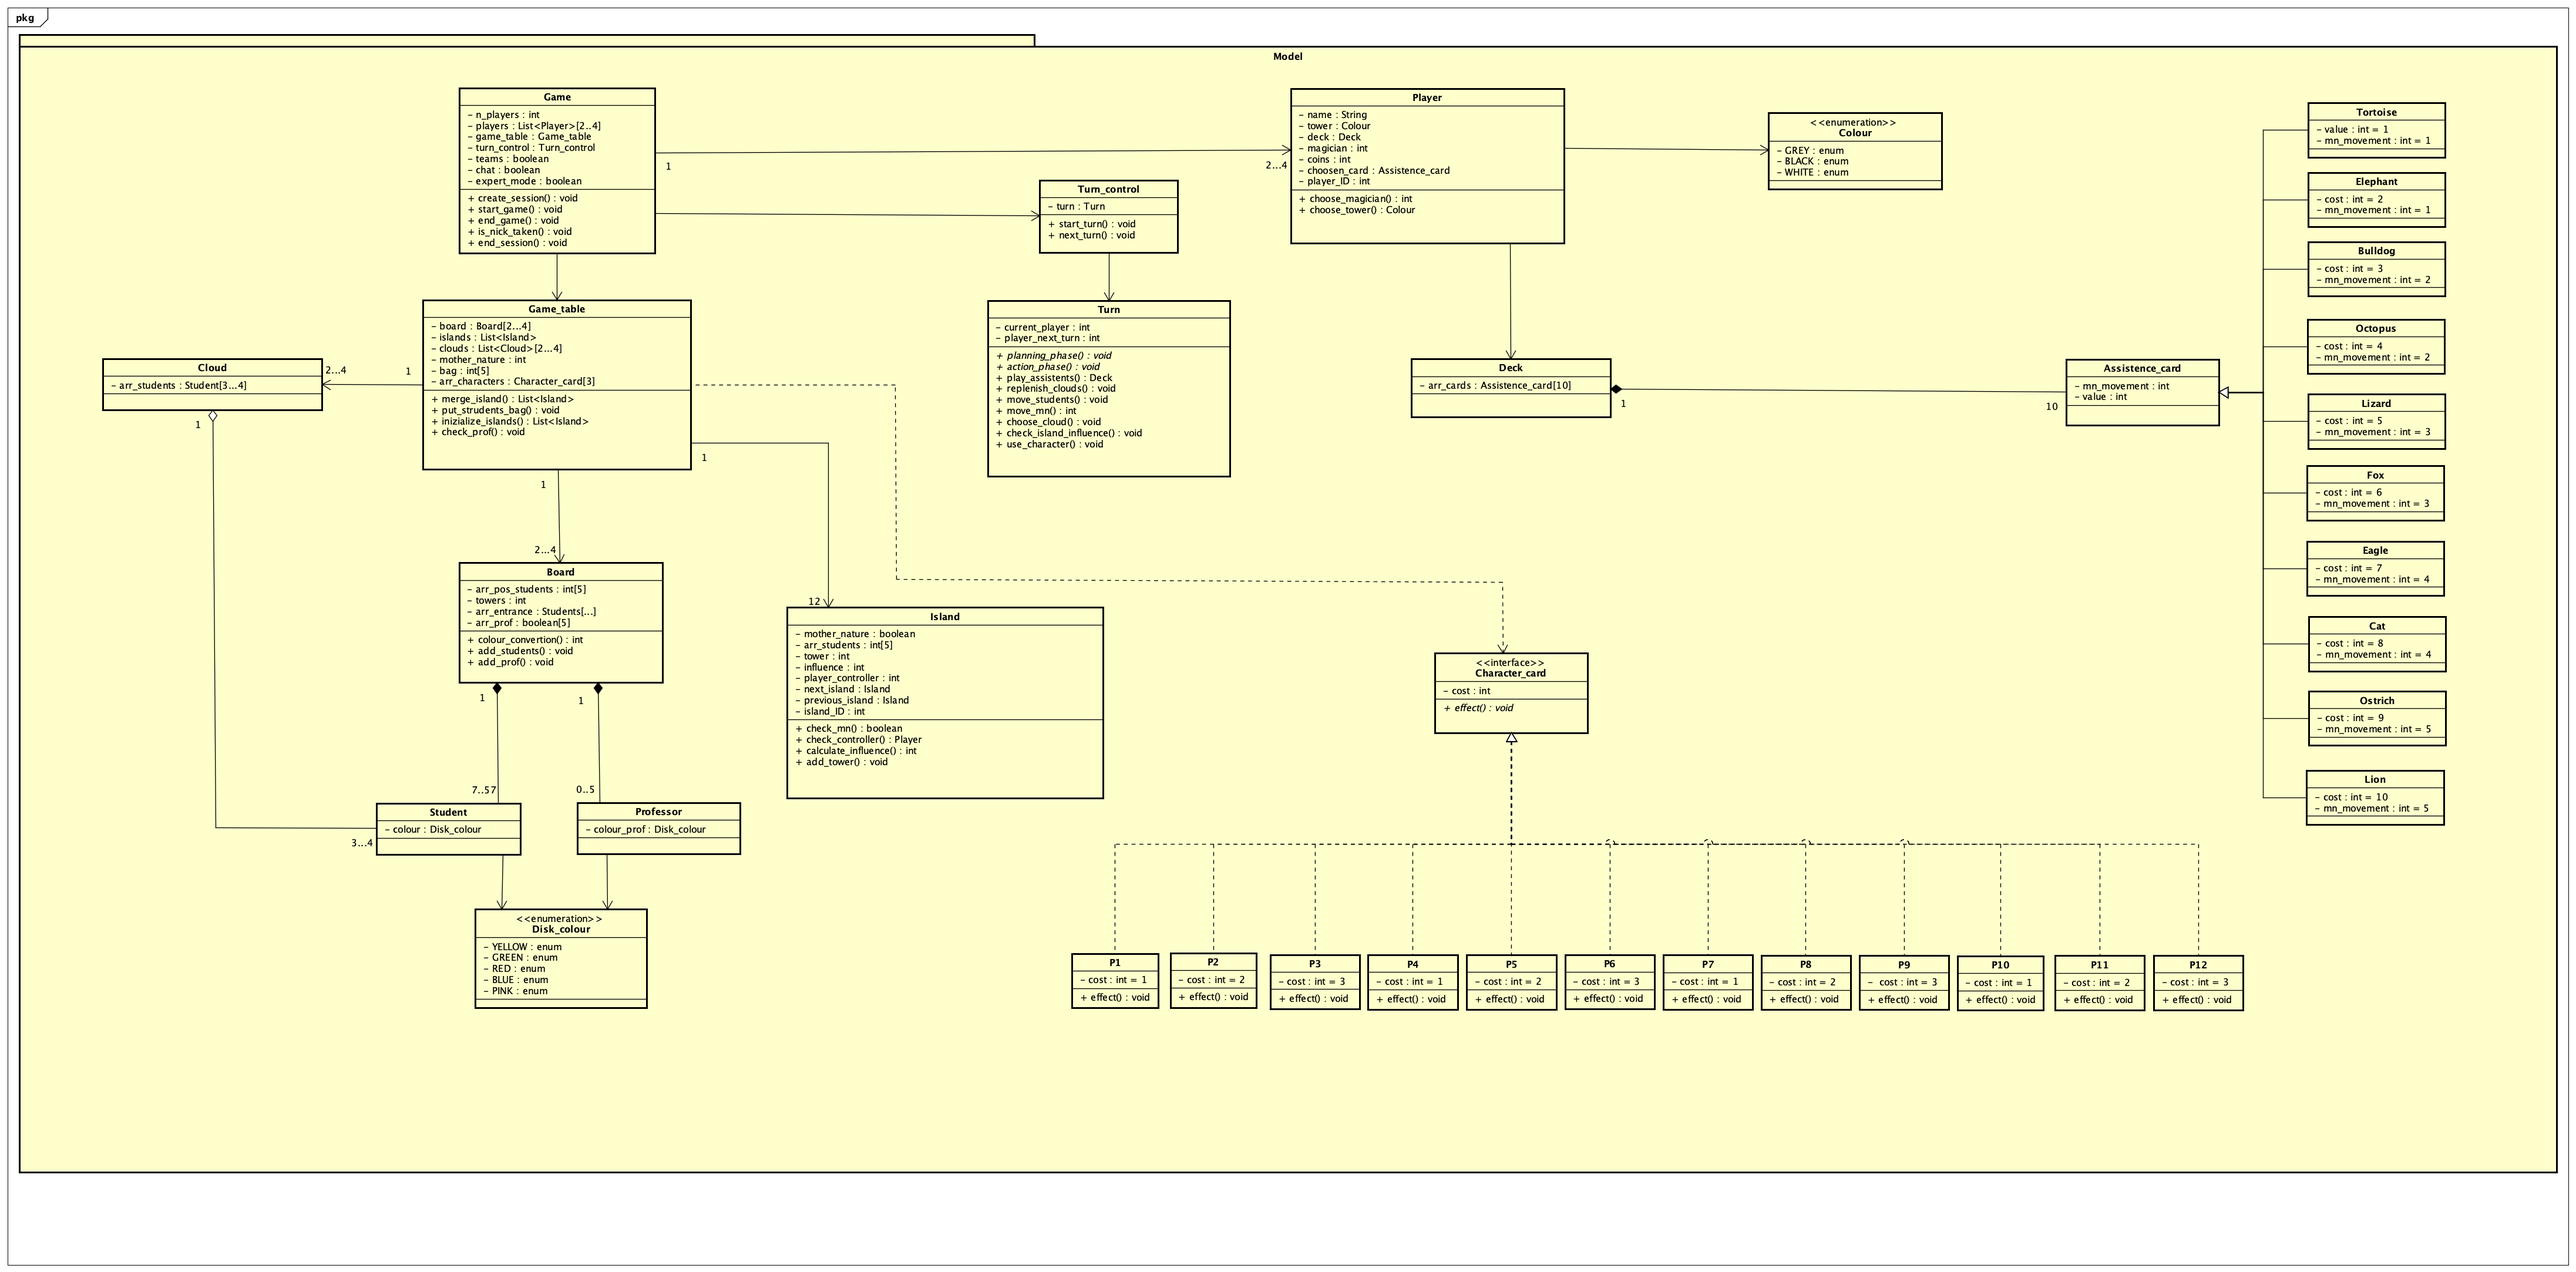
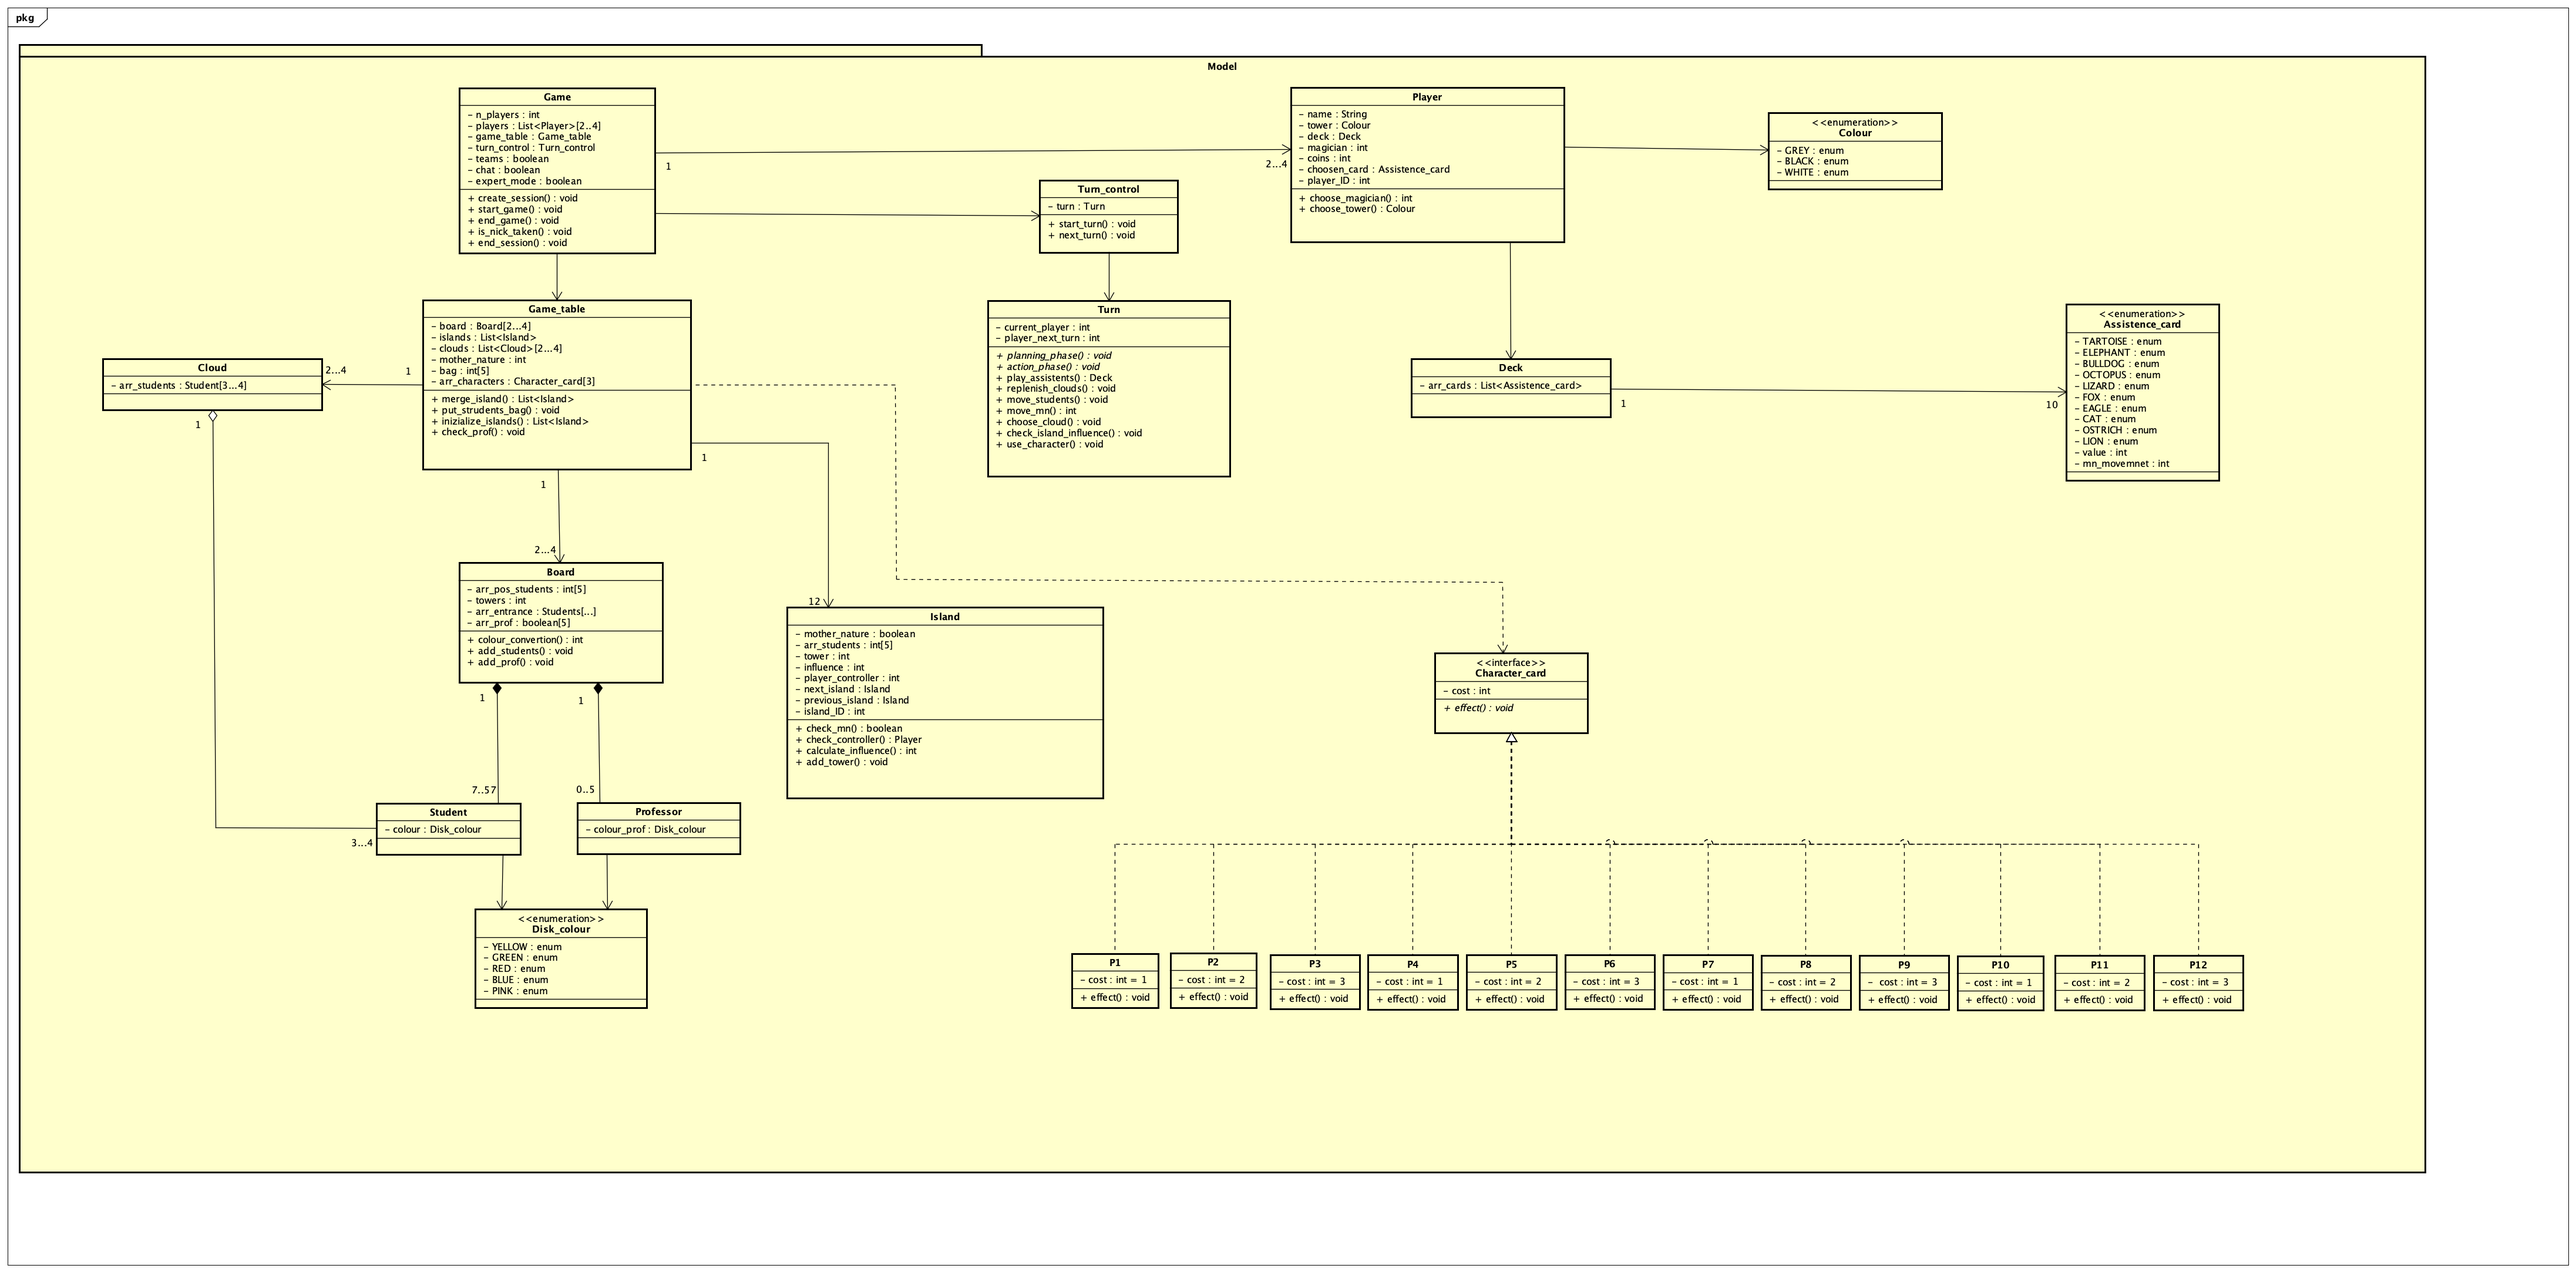
Modified some classes: Assistance_card is now an enumeration.

Changed region(s): [[0.0, 0.0, 0.9995, 0.928], [0.7809, 0.2475, 0.8434, 0.3712]]

diff --git a/src/main/java/it/polimi/ingsw/model/Player.java b/src/main/java/it/polimi/ingsw/model/Player.java
@@ -6,7 +6,10 @@ public class Player {
     private final int wizard;
     private int coin=1;
     private final int player_ID;
-    private Assistence_card chosen_card; //chosen card to play during the turn
+    private Assistance_card chosen_card; //chosen card to play during the turn
+    private final Deck deck=new Deck();
+
+
 
 
 
@@ -16,5 +19,30 @@ public class Player {
         tower_colour = tower.getTower_translate();
         this.player_ID = player_ID;
     }
+    //CHOSEN CARD AND REMOVAL MUST BE IMPLEMENTED
+    //private void set_chosen_card(Assistance_card chosen){
+    //    this.chosen_card = chosen.getChosen_card();
+    //    deck.remove_used_card(chosen_card);
+    //}
 
+
+    public int getPlayer_ID() {
+        return player_ID;
+    }
+
+    public int getCoin() {
+        return coin;
+    }
+
+    public int getTower_colour() {
+        return tower_colour;
+    }
+
+    public String getName() {
+        return name;
+    }
+
+    public void setChosen_card(Assistance_card chosen_card) {
+        this.chosen_card = chosen_card;
+    }
 }

diff --git a/src/main/java/it/polimi/ingsw/model/Deck.java b/src/main/java/it/polimi/ingsw/model/Deck.java
@@ -1,13 +1,29 @@
 package it.polimi.ingsw.model;
 
+import java.util.ArrayList;
+import java.util.Arrays;
+import java.util.List;
+
 public class Deck {
-    private Assistence_card[] arr_cards;
+    private List<Assistance_card> cards;
 
    public Deck(){
-       arr_cards = new Assistence_card[10];
-       // DECK IS NOT INITIALIZED YET
+       cards = new ArrayList<Assistance_card>(Arrays.asList(
+               Assistance_card.TORTOISE,
+               Assistance_card.ELEPHANT,
+               Assistance_card.BULLDOG,
+               Assistance_card.OCTOPUS,
+               Assistance_card.LIZARD,
+               Assistance_card.FOX,
+               Assistance_card.EAGLE,
+               Assistance_card.CAT,
+               Assistance_card.OSTRICH,
+               Assistance_card.LION));
        // REMEMBER TO IMPLEMENT
 
+   }
+   public void remove_used_card(Assistance_card chosen_remove){
+       cards.remove(chosen_remove);
    }
 
 

diff --git a/src/main/java/it/polimi/ingsw/model/Assistance_card.java b/src/main/java/it/polimi/ingsw/model/Assistance_card.java
@@ -1,0 +1,26 @@
+package it.polimi.ingsw.model;
+
+public enum Assistance_card {
+    TORTOISE(1,1), ELEPHANT(2,1),
+    BULLDOG(3,2),OCTOPUS(4,2),
+    LIZARD(5,3), FOX(6,3),
+    EAGLE(7,4), CAT(8,4),
+    OSTRICH(9,5), LION(10,5);
+
+    private final int value;
+    private final int mother_nature_movement;
+
+
+    Assistance_card(int value, int mother_nature_movement) {
+        this.value = value;
+        this.mother_nature_movement = mother_nature_movement;
+    }
+
+    public int getMother_nature_movement() {
+        return mother_nature_movement;
+    }
+
+    public int getValue() {
+        return value;
+    }
+}
